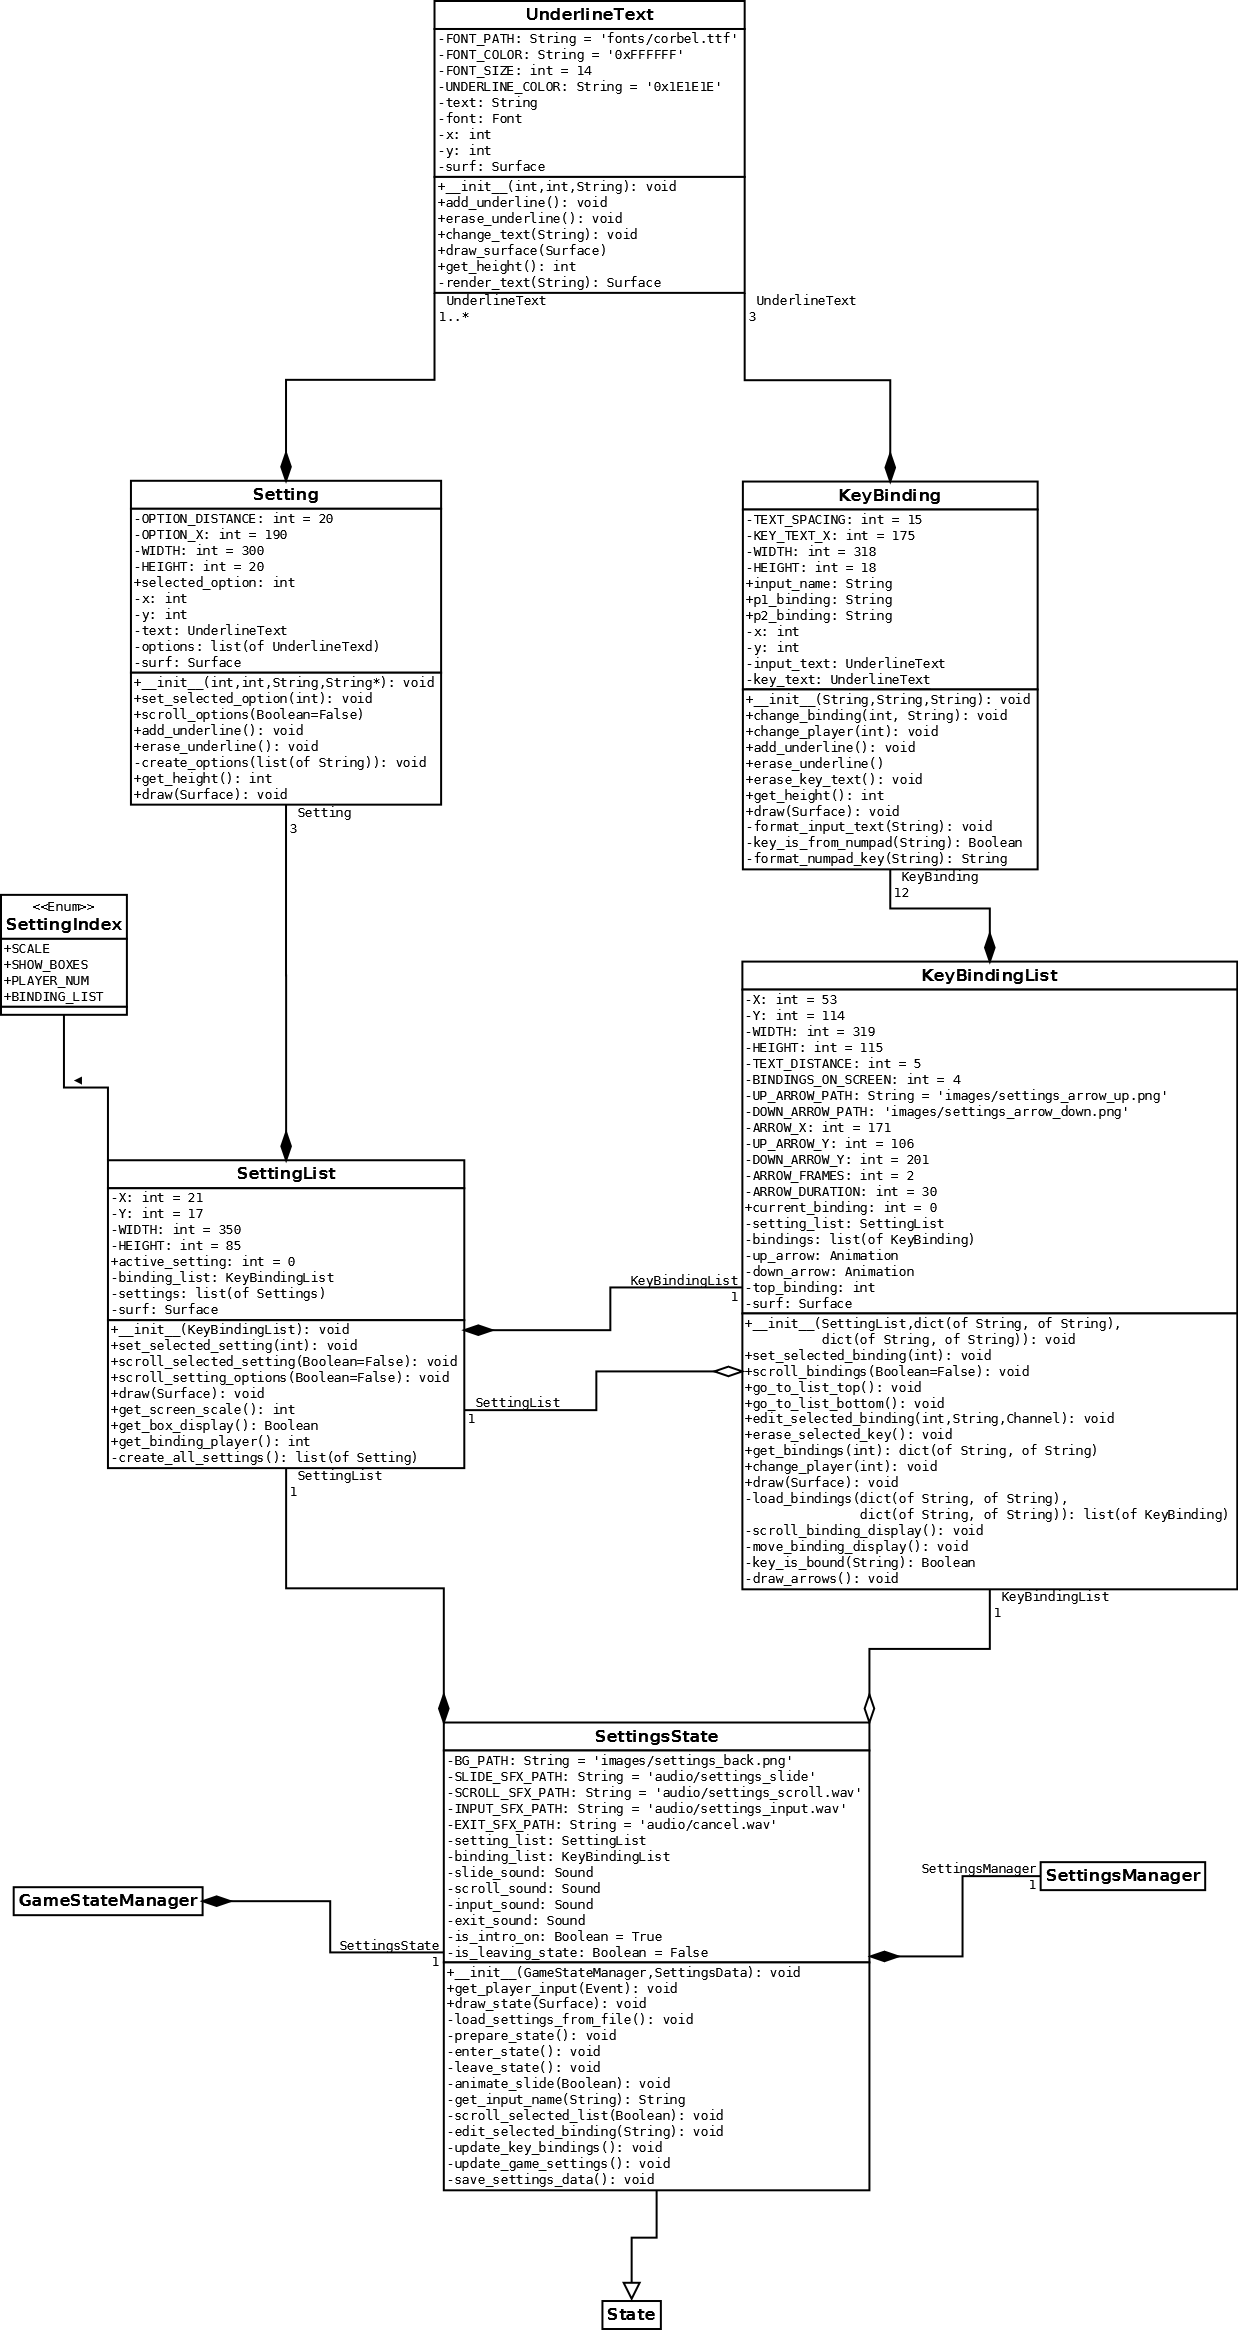
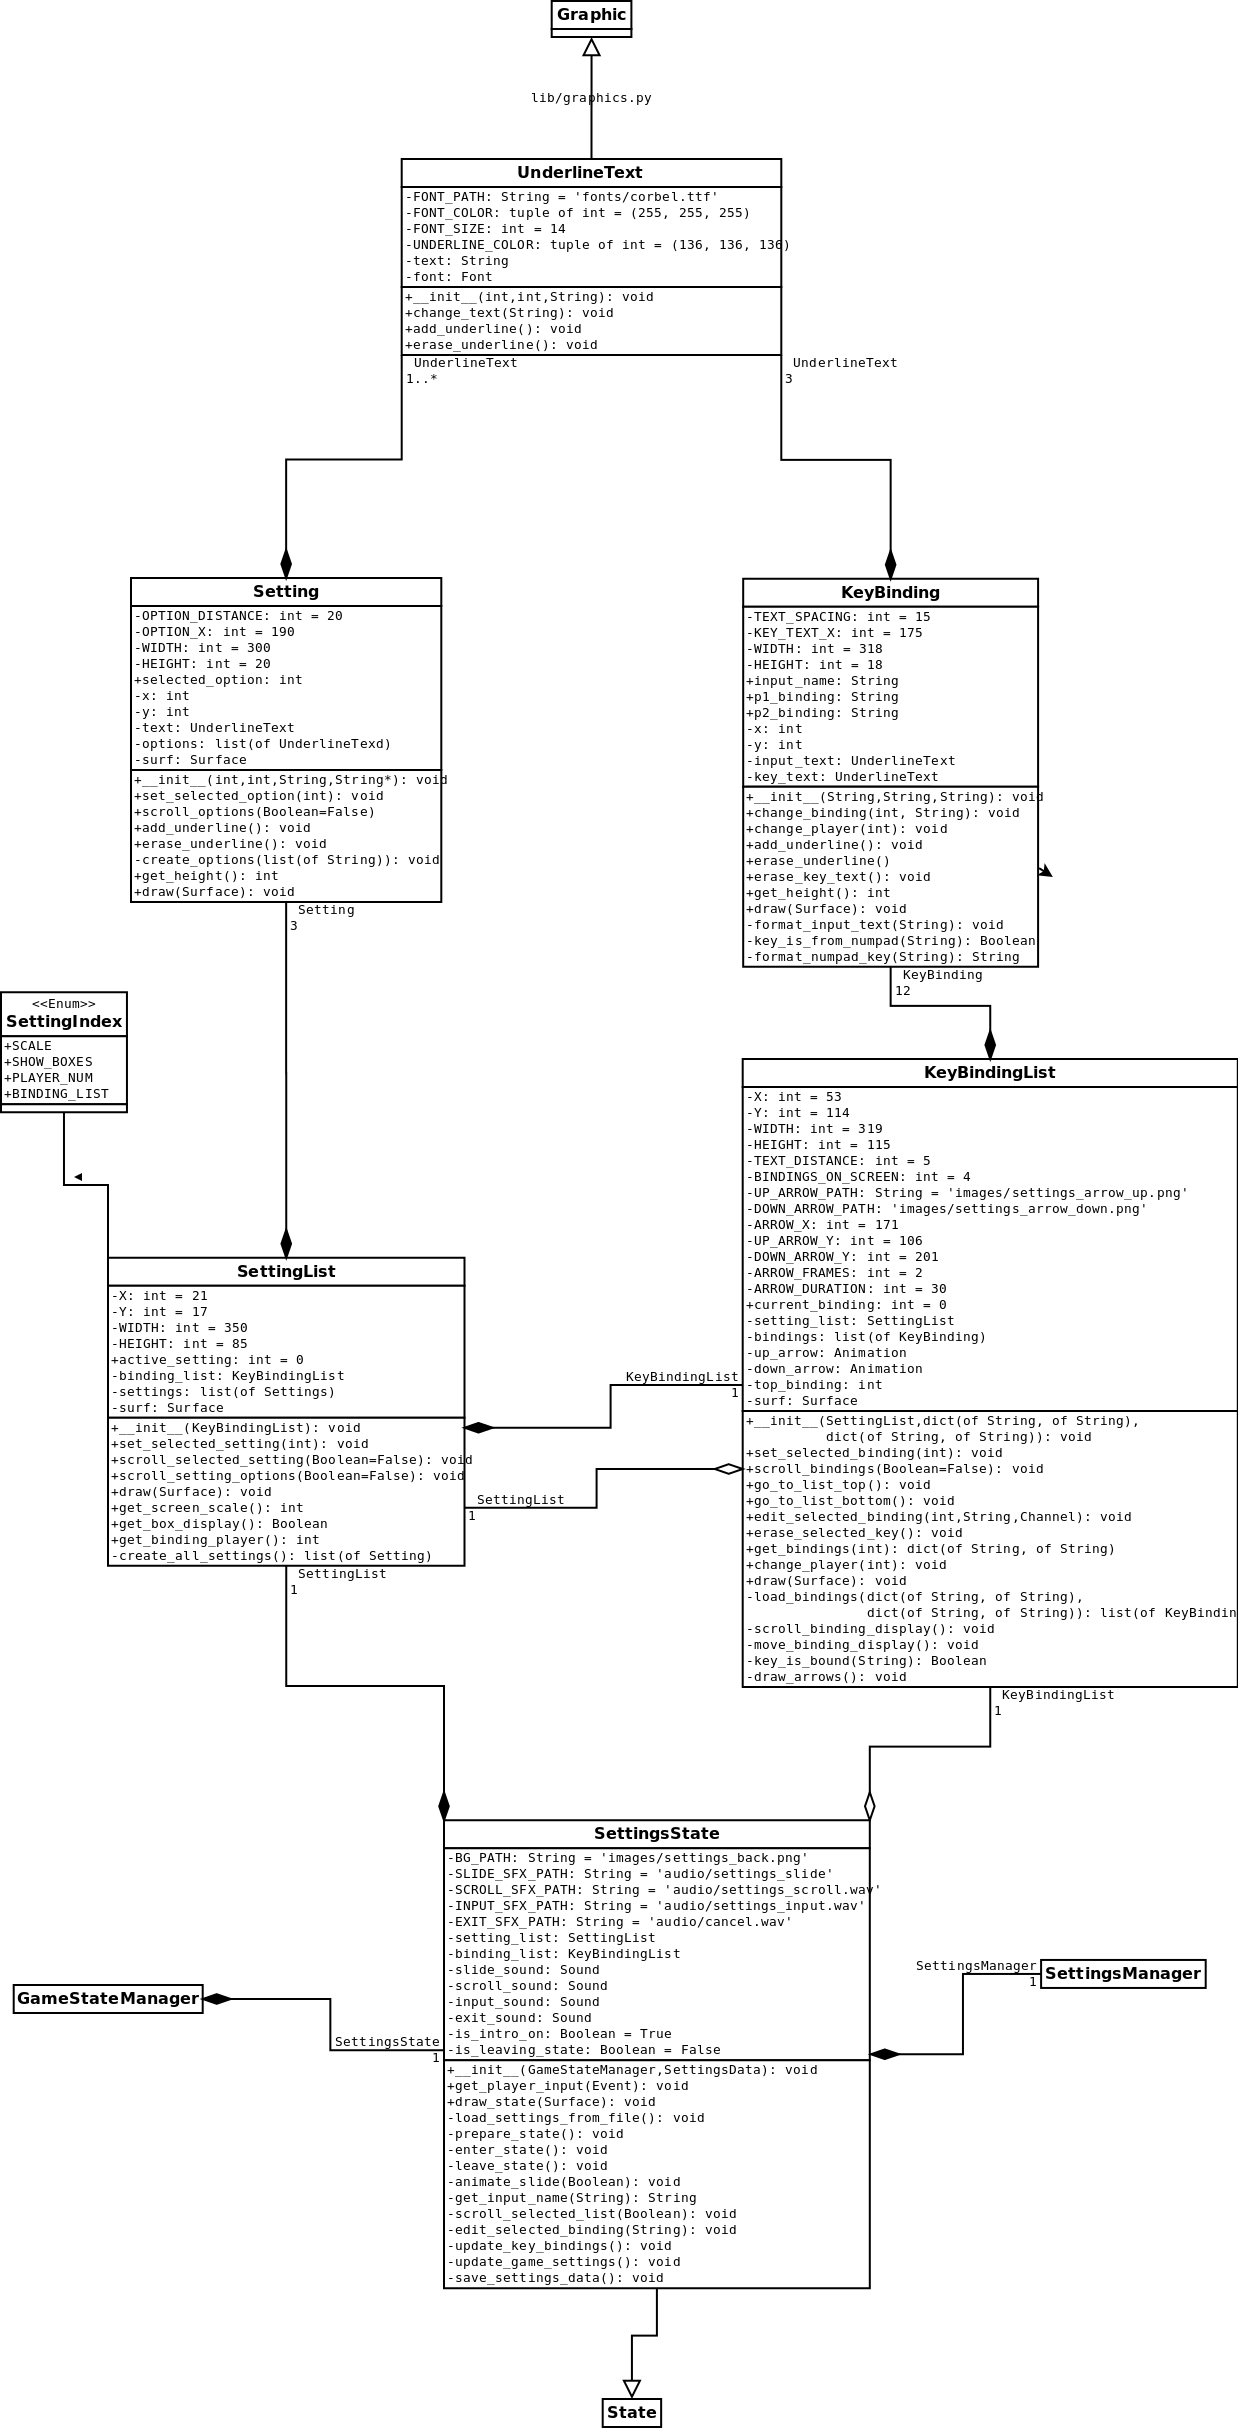
SettingsState: Turn UnderlineText into Graphic

diff --git a/lib/game_states/settings_state.py b/lib/game_states/settings_state.py
@@ -7,8 +7,7 @@ from pygame.mixer import Sound
 from lib.globals import SCREEN_SIZE
 from lib.globals import INPUT_NAMES
 from lib.globals import FRAME_RATE
-from lib.graphics import Graphic
-from lib.graphics import Animation
+from lib.graphics import Graphic, Animation, render_text
 from lib.game_states.state import State
 from lib.game_states.state import StatePass
 from lib.custom_data.settings_manager import save_settings
@@ -588,7 +587,7 @@ class Setting(object):
 
             # The next option will be drawn OPTION_DISTANCE pixels away
             # from where the last option's Surface ends.
-            new_x += option_list[i].get_width() + self.OPTION_DISTANCE
+            new_x += option_list[i].rect.width + self.OPTION_DISTANCE
         return option_list
 
     def set_selected_option(self, option_num):
@@ -643,7 +642,7 @@ class Setting(object):
         """Return the height of the Setting name text graphic in
         pixels.
         """
-        return self.text.get_height()
+        return self.text.rect.height
 
     def draw(self, parent_surf):
         """Draw the Setting text and all of its options onto the
@@ -1146,12 +1145,12 @@ class KeyBinding(object):
                 Binding relative to the game screen.
         """
         self.y = new_y
-        self.input_text.y = new_y
-        self.key_text.y = new_y
+        self.input_text.reposition(y=new_y)
+        self.key_text.reposition(y=new_y)
 
     def get_height(self):
         """Return the height of the input text graphic, in pixels."""
-        return self.key_text.get_height()
+        return self.key_text.rect.height
 
     def draw(self, parent_surf):
         """Draws the text graphics for this key binding onto the
@@ -1165,18 +1164,18 @@ class KeyBinding(object):
         self.key_text.draw(parent_surf)
 
 
-class UnderlineText(object):
-    """Represents a text graphic that can be underlined.
+class UnderlineText(Graphic):
+    """Represents a text Graphic that can be underlined.
 
     Class Constants:
         FONT_PATH           The filepath to the font used for rendering
                             text.
-        FONT_COLOUR         The hexadecimal value for the colour used
-                            in rendering the text.
+        FONT_COLOUR         A tuple containing the RGB values for the
+                            text color.
         FONT_SIZE           The size of the font used for rendering the
                             text.
-        UNDERLINE_COLOUR    The hexadecimal value for the colour used
-                            in rendering the underline.
+        UNDERLINE_COLOUR    A tuple containing the RGB values for the
+                            underline color.
         UNDERLINE_SIZE      The height of the underline, in pixels.
         COLORKEY            The name of the color used in colorkeying
                             the Surface to create a transparent
@@ -1193,12 +1192,10 @@ class UnderlineText(object):
         surf    The Surface onto which the text will be rendered.
     """
     FONT_PATH = "fonts/corbel.ttf"
-    FONT_COLOUR = "0xFFFFFF"
+    FONT_COLOUR = (255, 255, 255)
     FONT_SIZE = 16
-    #UNDERLINE_COLOUR = "0x1E1E1E"
-    UNDERLINE_COLOUR = "0x888888"
+    UNDERLINE_COLOUR = (136, 136, 136)
     UNDERLINE_SIZE = 4
-    COLORKEY = "grey20"
 
     def __init__(self, x, y, text):
         """Define and initialize instance variables.
@@ -1211,31 +1208,10 @@ class UnderlineText(object):
             text    The text that will be rendered onto this object's
                     Surface.
         """
-        self.x = x
-        self.y = y
         self.text = text
         self.font = Font(self.FONT_PATH, self.FONT_SIZE)
-        self.surf = self.render_text(text)
-
-    def render_text(self, text):
-        """Render the specified text onto a new Suface and return
-        it.
-
-        Args:
-            text        The string of text that will be drawn.
-        """
-        text_render = self.font.render(text, True, Color(self.FONT_COLOUR))
-        text_width = text_render.get_width()
-        text_height = text_render.get_height()
-
-        # In order to enable proper antialiasing on the text, it will need to
-        # be drawn on top of a colorkeyed Surface.
-        new_surf = Surface((text_width, text_height))
-        new_surf.fill(Color(self.COLORKEY))
-        new_surf.set_colorkey(Color(self.COLORKEY))
-        new_surf.blit(text_render, (0, 0))
-
-        return new_surf
+        image = render_text(self.font, text, self.FONT_COLOUR)
+        super(UnderlineText, self).__init__(image, (x, y))
 
     def change_text(self, new_text):
         """Redraw the text Surface with a new text string.
@@ -1245,14 +1221,14 @@ class UnderlineText(object):
                         written on the text Surface.
         """
         self.text = new_text
-        self.surf = self.render_text(new_text)
+        self.image = render_text(self.font, new_text, self.FONT_COLOUR)
 
     def add_underline(self):
         """Draws an underline on the text Surface, on top the text."""
         # The underline will be drawn from the bottom of the text Surface
         # and will extend its entire horizontal length.
-        text_width = self.surf.get_width()
-        text_height = self.surf.get_height()
+        text_width = self.rect.width
+        text_height = self.rect.height
 
         start_point = (0, text_height - 4)
         end_point = (text_width, text_height - 4)
@@ -1260,31 +1236,15 @@ class UnderlineText(object):
         # The underline is drawn onto a new Surface with the same dimensions
         # as the text Surface, but slightly taller to account for the
         # underline. The text is drawn on top.
-        new_surf = Surface((text_width, text_height + 4), pygame.SRCALPHA, 32)
-        new_surf = new_surf.convert_alpha()
-        draw.line(new_surf, Color(self.UNDERLINE_COLOUR), start_point,
+        new_image = Surface((text_width, text_height + 4), pygame.SRCALPHA, 32)
+        new_image = new_image.convert_alpha()
+        draw.line(new_image, self.UNDERLINE_COLOUR, start_point,
                   end_point, self.UNDERLINE_SIZE)
-        new_surf.blit(self.surf, (0, 0))
+        new_image.blit(self.image, (0, 0))
 
-        self.surf = new_surf
+        self.image = new_image
 
     def erase_underline(self):
         """Re-renders the text Surface without an underline."""
-        self.surf = self.render_text(self.text)
+        self.image = render_text(self.font, self.text, self.FONT_COLOUR)
 
-    def get_width(self):
-        """Return the horizontal length of the text Surface."""
-        return self.surf.get_width()
-
-    def get_height(self):
-        """Return the vertical length of the text graphic in pixels."""
-        return self.surf.get_height()
-
-    def draw(self, parent_surf):
-        """Draws the text Surface onto the specified Surface.
-
-        Args:
-            parent_surf     The Surface onto which the text graphic
-                            will be displayed.
-        """
-        parent_surf.blit(self.surf, (self.x, self.y))
